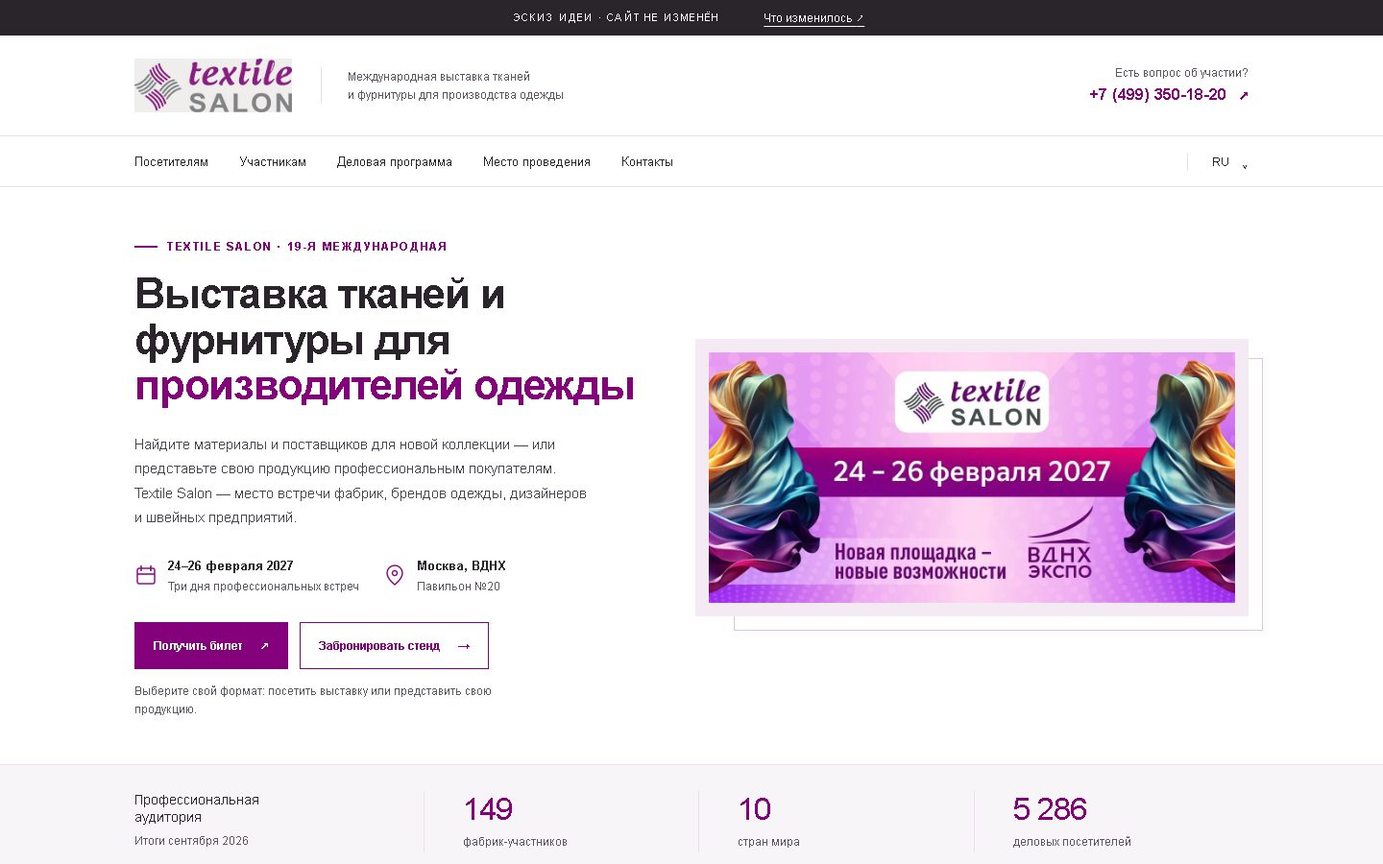
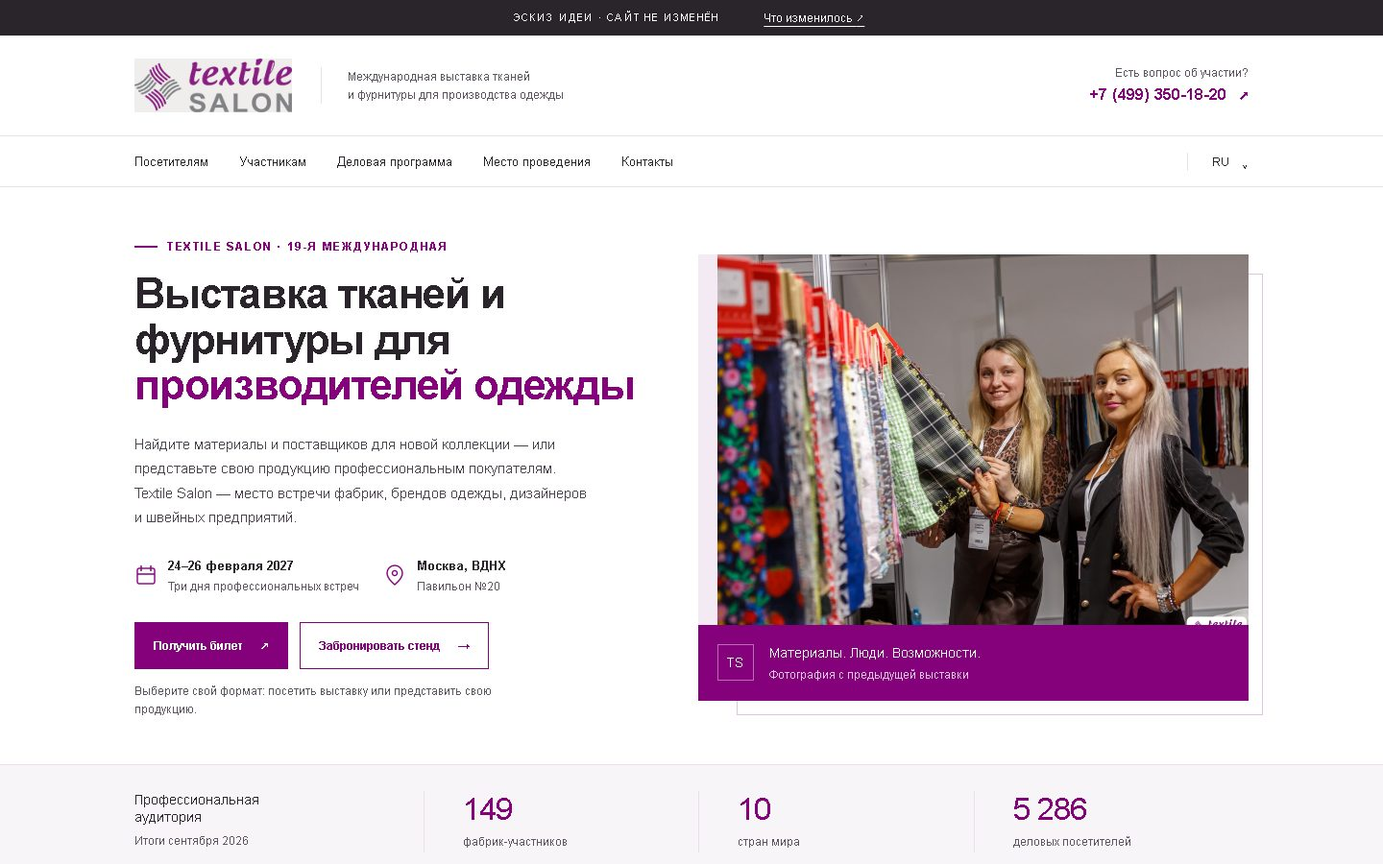
Textile Salon: на первом экране эскиза — фото людей с тканями

Changed region(s): [[0.5, 0.28, 0.9062, 0.84]]

diff --git a/textile-w5n2/maket/index.html b/textile-w5n2/maket/index.html
@@ -32,7 +32,7 @@
         <div class="actions"><button class="button primary" data-open="ticket">Получить билет <span aria-hidden="true">↗</span></button><a class="button secondary" href="#forma">Забронировать стенд <span aria-hidden="true">→</span></a></div>
         <p class="hero-footnote">Выберите свой формат: посетить выставку или представить свою продукцию.</p>
       </div>
-      <div class="hero-image hero-banner"><picture><img src="assets/banner-2027.jpg" width="1260" height="600" alt="Textile Salon, 24–26 февраля 2027, ВДНХ Экспо. Новая площадка — новые возможности"></picture></div>
+      <div class="hero-image hero-photo"><img src="assets/hero.jpg" width="1400" height="987" alt="Посетители знакомятся с образцами тканей на стенде Textile Salon"><div class="image-caption"><span class="caption-mark" aria-hidden="true">TS</span><div>Материалы. Люди. Возможности.<small>Фотография с предыдущей выставки</small></div></div></div>
     </section>
     <section class="proof" aria-label="Итоги предыдущей выставки"><div class="wrap proof-inner"><p>Профессиональная<br>аудитория<small>Итоги сентября 2026</small></p><div><strong>149</strong><span>фабрик-участников</span></div><div><strong>10</strong><span>стран мира</span></div><div><strong>5 286</strong><span>деловых посетителей</span></div></div></section>
     <section class="section wrap why" aria-labelledby="why-title"><div class="section-heading"><div><p class="eyebrow">Почему Textile Salon</p><h2 id="why-title">Выставка, ради которой приезжают</h2></div></div><div class="why-grid"><div><span class="why-num">01</span><h3>Вместе с CPM на ВДНХ</h3><p>Textile Salon и выставка CPM проходят в одни сроки на ВДНХ. Синергия крупнейших fashion-выставок — максимум результата от участия.</p></div><div><span class="why-num">02</span><h3>Время заказов</h3><p>Выставка проходит, когда производители одежды формируют заказы на коллекции следующего сезона.</p></div><div><span class="why-num">03</span><h3>Фабрики Турции и Европы</h3><p>Крупнейшая в России выставка тканей для производства одежды по количеству фабрик из Турции и Европы.</p></div></div></section>
@@ -44,9 +44,9 @@
       </div>
     </section>
     <section class="section trust" aria-labelledby="trust-title"><div class="wrap"><div class="section-heading"><div><p class="eyebrow">Участники и отзывы</p><h2 id="trust-title">149 фабрик уже были с нами</h2></div><button class="text-link" data-open="catalogue">Каталог участников <span aria-hidden="true">↗</span></button></div><img class="logo-wall" loading="lazy" src="assets/logos.webp" width="1600" height="900" alt="Логотипы фабрик — участников Textile Salon"><div class="quotes"><figure><blockquote>«Участвуем впервые в Textile Salon, но что мы увидели на открытии — выставка очень профессиональная. Первый день был очень продуктивным, мы собрали заказы на выставке».</blockquote><figcaption>Gurcan Dur<small>RIDVAN AHMEDIN TEKSTIL</small></figcaption></figure><figure><blockquote>«Организация выставки всегда на высшем уровне, большой поток посетителей к нам: и постоянные наши клиенты за новинками приезжают, и много новых партнеров именно с этой выставки у нас».</blockquote><figcaption>Юлиана Боровская<small>SERGIO STEFANO</small></figcaption></figure><figure><blockquote>«Экспозиция TEXTILE SALON — это ключ для открытия и освоения Российского рынка в сфере производства тканей для одежды».</blockquote><figcaption>Ahmet Hocazade<small>EMRE TEKSTİL</small></figcaption></figure></div><p class="subtle">Отзывы и логотипы — с действующего сайта textile-salon.ru.</p></div></section>
-<section class="section atmosphere" id="photos"><div class="wrap"><div class="section-heading"><div><p class="eyebrow">Встречаемся вживую</p><h2>Так проходит Textile Salon</h2></div><button class="text-link" data-open="photos">Все фотографии <span aria-hidden="true">↗</span></button></div><div class="photo-grid"><button data-photo="assets/photo-1.jpg" aria-label="Открыть фото: образцы тканей"><img loading="lazy" src="assets/photo-1.jpg" width="360" height="254" alt="Образцы тканей на стенде выставки"></button><button data-photo="assets/photo-2.jpg" aria-label="Открыть фото: общение на стендах"><img loading="lazy" src="assets/photo-2.jpg" width="360" height="254" alt="Деловая встреча на стенде Runa Tex"></button><button data-photo="assets/photo-3.jpg" aria-label="Открыть фото: обсуждение коллекций"><img loading="lazy" src="assets/photo-3.jpg" width="360" height="242" alt="Участники обсуждают материалы на стенде"></button></div><p class="subtle">Фотографии предыдущих выставок. Архивные материалы сохраняются.</p><details class="video-details"><summary><span class="play-symbol" aria-hidden="true">▶</span><span>Видео итоги выставки<small>Сентябрь 2026 · смотреть по нажатию</small></span><span class="plus" aria-hidden="true">+</span></summary><video controls preload="none" playsinline poster="assets/poster.jpg"><source src="assets/video.mp4" type="video/mp4">Ваш браузер не поддерживает видео.</video></details></div></section>
+<section class="section atmosphere" id="photos"><div class="wrap"><div class="section-heading"><div><p class="eyebrow">Встречаемся вживую</p><h2>Так проходит Textile Salon</h2></div><button class="text-link" data-open="photos">Все фотографии <span aria-hidden="true">↗</span></button></div><div class="photo-grid"><button data-photo="assets/photo-2.jpg" aria-label="Открыть фото: общение на стендах"><img loading="lazy" src="assets/photo-2.jpg" width="360" height="254" alt="Деловая встреча на стенде Runa Tex"></button><button data-photo="assets/photo-3.jpg" aria-label="Открыть фото: обсуждение коллекций"><img loading="lazy" src="assets/photo-3.jpg" width="360" height="242" alt="Участники обсуждают материалы на стенде"></button><button data-photo="assets/photo-1.jpg" aria-label="Открыть фото: образцы тканей"><img loading="lazy" src="assets/photo-1.jpg" width="360" height="254" alt="Образцы тканей на стенде выставки"></button></div><p class="subtle">Фотографии предыдущих выставок. Архивные материалы сохраняются.</p><details class="video-details"><summary><span class="play-symbol" aria-hidden="true">▶</span><span>Видео итоги выставки<small>Сентябрь 2026 · смотреть по нажатию</small></span><span class="plus" aria-hidden="true">+</span></summary><video controls preload="none" playsinline poster="assets/poster.jpg"><source src="assets/video.mp4" type="video/mp4">Ваш браузер не поддерживает видео.</video></details></div></section>
     <section class="section wrap essentials" id="program"><div class="section-heading"><div><p class="eyebrow">Подготовьтесь к визиту</p><h2>Всё нужное — рядом</h2></div></div><div class="quick-grid"><button data-open="program"><span>01</span><strong>Деловая программа</strong><small>Выступления и профессиональное общение</small><b aria-hidden="true">↗</b></button><button data-open="catalogue"><span>02</span><strong>Участники выставки</strong><small>Фабрики, коллекции и контакты</small><b aria-hidden="true">↗</b></button><button data-open="application"><span>03</span><strong>Мобильное приложение</strong><small>Дополнительные возможности для посетителей</small><b aria-hidden="true">↗</b></button></div></section>
-    <section class="location" id="location"><div class="wrap location-inner"><div><p class="eyebrow">Место встречи</p><h2>Москва. ВДНХ.<br>Павильон №20.</h2><p>Проспект Мира, д. 119, стр. 20.<br>Метро «ВДНХ» и «Ботанический сад».</p><button class="text-link" data-open="map">Как добраться <span aria-hidden="true">↗</span></button><img class="location-photo" loading="lazy" src="assets/vdnh.webp" width="1000" height="613" alt="Главный вход ВДНХ"></div><div class="schedule"><p>24–26 ФЕВРАЛЯ 2027</p><div><span>24 февраля</span><strong>10:00 — 18:00</strong></div><div><span>25 февраля</span><strong>10:00 — 18:00</strong></div><div><span>26 февраля</span><strong>10:00 — 16:00</strong></div></div></div></section>
+    <section class="location" id="location"><div class="wrap location-inner"><div><p class="eyebrow">Место встречи</p><h2>Москва. ВДНХ.<br>Павильон №20.</h2><p>Проспект Мира, д. 119, стр. 20.<br>Метро «ВДНХ» и «Ботанический сад».</p><button class="text-link" data-open="map">Как добраться <span aria-hidden="true">↗</span></button><img class="location-photo location-banner" loading="lazy" src="assets/banner-2027.jpg" width="1260" height="600" alt="Textile Salon, 24–26 февраля 2027, ВДНХ Экспо. Новая площадка — новые возможности"></div><div class="schedule"><p>24–26 ФЕВРАЛЯ 2027</p><div><span>24 февраля</span><strong>10:00 — 18:00</strong></div><div><span>25 февраля</span><strong>10:00 — 18:00</strong></div><div><span>26 февраля</span><strong>10:00 — 16:00</strong></div></div></div></section>
     <section class="section wrap booking" id="forma"><div class="booking-copy"><p class="eyebrow">Участие в выставке</p><h2>Ваша коллекция.<br>Ваш следующий<br><em>деловой контакт.</em></h2><p>Оставьте контакты, чтобы обсудить стенд и условия участия с организатором.</p><div class="contact-block" id="contacts"><small>Организатор — Expo Fashion</small><button data-open="contacts">+7 (499) 350-18-20 ↗</button><button data-open="contacts">mail@expo-fashion.ru ↗</button></div></div><form class="booking-form" id="demo-form"><h3>Забронировать стенд</h3><p class="demo-note">Демонстрационная форма — данные никуда не отправляются.</p><div class="form-grid"><label>Название компании *<input name="company" autocomplete="organization" placeholder="Ваша компания"></label><label>Контактное лицо *<input name="person" autocomplete="name" placeholder="Как к вам обращаться"></label><label>Телефон *<input name="phone" type="tel" autocomplete="tel" placeholder="+7 (___) ___-__-__"></label><label>Email *<input name="email" type="email" autocomplete="email" placeholder="mail@company.ru"></label></div><label>Площадь стенда <span class="optional">необязательно</span><input name="stand" placeholder="Если уже знаете желаемую площадь"></label><div class="consent-preview"><input type="checkbox" disabled aria-label="Образец галочки согласия, в макете не используется"><span>Я согласен(-а) с обработкой персональных данных.<br><button type="button" data-open="consent">Документ согласия</button></span></div><button type="button" class="button primary form-button" data-open="form-demo">Отправить заявку <span aria-hidden="true">→</span></button><small class="required-note">* Обязательные поля в рабочей форме</small></form></section>
   </main>
   <footer><div class="wrap footer-inner"><img src="assets/logo.gif" width="150" height="52" alt="Textile Salon"><p>Международная выставка тканей и фурнитуры<br>для производства одежды</p><button data-open="privacy">Политика конфиденциальности ↗</button></div></footer>

diff --git a/textile-w5n2/ideya/index.html b/textile-w5n2/ideya/index.html
@@ -54,7 +54,7 @@ footer{padding-top:36px;color:var(--muted);font-size:14px;border-top:1px solid v
 <table>
 <thead><tr><th>Что хочет понять человек</th><th>Сейчас</th><th>В эскизе</th></tr></thead>
 <tbody>
-<tr><td>Что это?</td><td>Логотип и даты на баннере. Слова «выставка тканей и фурнитуры» — ниже, после прокрутки</td><td class="yes">Сразу в заголовке: «Выставка тканей и фурнитуры»</td></tr>
+<tr><td>Что это?</td><td>Логотип и даты на баннере. Слова «выставка тканей и фурнитуры» — ниже, после прокрутки</td><td class="yes">Живое фото людей с тканями — понятно ещё до чтения. И заголовок: «Выставка тканей и фурнитуры»</td></tr>
 <tr><td>Для кого?</td><td>В тексте ниже баннера</td><td class="yes">«…для производителей одежды» и строка под заголовком</td></tr>
 <tr><td>Когда и где?</td><td class="yes">На баннере — хорошо видно</td><td class="yes">На баннере и ещё раз рядом с кнопками</td></tr>
 <tr><td>Что сделать?</td><td>Внизу кнопка «Получите билет»; бронь стенда — далеко ниже по странице</td><td class="yes">Две кнопки: «Получить билет» и «Забронировать стенд» — всегда под пальцем</td></tr>
@@ -66,10 +66,10 @@ footer{padding-top:36px;color:var(--muted);font-size:14px;border-top:1px solid v
 <div class="compare phones">
 <figure><div class="shot"><img src="img/seychas-m.jpg" width="780" height="1688" alt="Главная на телефоне сейчас: баннер и плашка cookie" loading="lazy"></div><figcaption><b>Сейчас</b>Баннер с логотипом и датами, плашка cookie. Что это за выставка и для кого — после прокрутки.</figcaption></figure>
 <figure><div class="shot"><img src="img/maket-m.jpg" width="780" height="1688" alt="Эскиз главной на телефоне" loading="lazy">
-<span class="pin" style="left:91%;top:17.5%">1</span><span class="pin" style="left:91%;top:45%">2</span><span class="pin" style="left:91%;top:76%">3</span><span class="pin" style="left:6%;top:89%">4</span></div><figcaption><b>Эскиз</b>Тот же баннер, а под ним — ответы на главные вопросы.</figcaption></figure>
+<span class="pin" style="left:91%;top:18.5%">1</span><span class="pin" style="left:91%;top:52%">2</span><span class="pin" style="left:91%;top:83%">3</span><span class="pin" style="left:6%;top:93.5%">4</span></div><figcaption><b>Эскиз</b>Живое фото с выставки, а под ним — ответы на главные вопросы.</figcaption></figure>
 </div>
 <ul class="legend">
-<li><i>1</i><div><b>Фирменный баннер сезона остаётся</b><span>Узнаваемый образ выставки — как сейчас.</span></div></li>
+<li><i>1</i><div><b>Живые люди и ткани в руках</b><span>Ещё не прочитав ни слова, человек понимает, о чём выставка. Живые люди привлекают внимание и вызывают доверие.</span></div></li>
 <li><i>2</i><div><b>Заголовок отвечает «что это и для кого»</b><span>«Выставка тканей и фурнитуры для производителей одежды». Такой заголовок помогает и поиску в Яндексе.</span></div></li>
 <li><i>3</i><div><b>Даты и место — рядом, без поиска</b><span>Человеку не нужно листать, чтобы понять, когда и куда ехать.</span></div></li>
 <li><i>4</i><div><b>Две кнопки: билет — посетителю, стенд — участнику</b><span>На телефоне обе закреплены внизу экрана и видны всегда.</span></div></li>
@@ -82,7 +82,7 @@ footer{padding-top:36px;color:var(--muted);font-size:14px;border-top:1px solid v
 <div class="compare">
 <figure><div class="shot"><img src="img/seychas-d.jpg" width="1440" height="900" alt="Главная на компьютере сейчас" loading="lazy"></div><figcaption><b>Сейчас</b>Описание выставки есть — мелкой строкой вверху и текстом под баннером. Билет и заявка на стенд на первом экране — только в выпадающих меню.</figcaption></figure>
 <figure><div class="shot"><img src="img/maket-d.jpg" width="1440" height="900" alt="Эскиз главной на компьютере" loading="lazy">
-<span class="pin" style="left:88%;top:41%">1</span><span class="pin" style="left:6.5%;top:33%">2</span><span class="pin" style="left:6.5%;top:66.5%">3</span><span class="pin" style="left:6.5%;top:74.5%">4</span></div><figcaption><b>Эскиз</b>Текст и кнопки слева, фирменный баннер справа — всё на одном экране.</figcaption></figure>
+<span class="pin" style="left:88%;top:31%">1</span><span class="pin" style="left:6.5%;top:33%">2</span><span class="pin" style="left:6.5%;top:66.5%">3</span><span class="pin" style="left:6.5%;top:74.5%">4</span></div><figcaption><b>Эскиз</b>Текст и кнопки слева, живое фото с выставки справа — всё на одном экране.</figcaption></figure>
 </div>
 </section>
 
@@ -95,7 +95,7 @@ footer{padding-top:36px;color:var(--muted);font-size:14px;border-top:1px solid v
 <div class="card"><span class="k">Довод для участника</span><p>Рядом с кнопкой брони — 5 286 деловых посетителей, 89% из них принимают решения о контрактах.</p></div>
 <div class="card"><span class="k">Участники и отзывы</span><p>Стена логотипов 149 фабрик и три отзыва участников — доверие без лишних слов.</p></div>
 <div class="card"><span class="k">Фото и видео</span><p>Спокойнее: несколько фотографий и видео, которое загружается только по нажатию.</p></div>
-<div class="card"><span class="k">Место и заявка</span><p>Адрес, часы работы и форма брони стенда рядом с контактами организатора.</p></div>
+<div class="card"><span class="k">Место и заявка</span><p>Фирменный баннер сезона «Новая площадка — новые возможности» — в блоке про ВДНХ. Рядом адрес, часы работы и форма брони стенда.</p></div>
 </div>
 </section>
 
@@ -127,5 +127,5 @@ footer{padding-top:36px;color:var(--muted);font-size:14px;border-top:1px solid v
 <a class="cta" href="../maket/" target="_blank" rel="noopener">Открыть эскиз целиком →</a>
 </section>
 
-<footer>Эскиз собран из материалов сайта textile-salon.ru: баннер, фотографии, цифры итогов сентября 2026, отзывы и логотипы участников. Действующий сайт не изменялся.</footer>
+<footer>Эскиз собран из материалов сайта textile-salon.ru: фотографии, фирменный баннер, цифры итогов сентября 2026, отзывы и логотипы участников. Действующий сайт не изменялся.</footer>
 </div></body></html>

diff --git a/textile-w5n2/maket/script.js b/textile-w5n2/maket/script.js
@@ -15,7 +15,7 @@ const pages={
 };
 function openInfo(key){
   if(key==='explain'){
-    body.innerHTML='<p class="dialog-meta">Бережное обновление главной</p><h2 id="dialog-title">Что я предлагаю изменить</h2><ol><li><strong>Объяснить выставку сразу.</strong> Короткое название, аудитория, даты и место находятся рядом.</li><li><strong>Два понятных действия.</strong> Билет и стенд видны на первом экране; на телефоне обе кнопки закреплены внизу.</li><li><strong>Разделить задачи посетителей.</strong> Покупатели материалов и участники выставки получают свои короткие блоки.</li><li><strong>Показать подтверждения.</strong> Цифры явно относятся к сентябрю2026, а не обещают состав будущей выставки.</li><li><strong>Сделать чтение спокойнее.</strong> Короткие абзацы, крупные ссылки и меньше конкурирующих элементов.</li><li><strong>Сохранить знакомое.</strong> Фирменный баннер сезона, прежние цвет, логотип, фотографии, контакты и разделы. Видео только по нажатию.</li></ol><p>Это предложение для обсуждения. На действующем сайте ничего не изменено. Рост обращений проверяется статистикой, а не обещается макетом.</p>';
+    body.innerHTML='<p class="dialog-meta">Бережное обновление главной</p><h2 id="dialog-title">Что я предлагаю изменить</h2><ol><li><strong>Объяснить выставку сразу.</strong> Живое фото людей с тканями, название, аудитория, даты и место — на первом экране.</li><li><strong>Два понятных действия.</strong> Билет и стенд видны на первом экране; на телефоне обе кнопки закреплены внизу.</li><li><strong>Разделить задачи посетителей.</strong> Покупатели материалов и участники выставки получают свои короткие блоки.</li><li><strong>Показать подтверждения.</strong> Цифры явно относятся к сентябрю2026, а не обещают состав будущей выставки.</li><li><strong>Сделать чтение спокойнее.</strong> Короткие абзацы, крупные ссылки и меньше конкурирующих элементов.</li><li><strong>Сохранить знакомое.</strong> Фирменный баннер сезона (в блоке «Место встречи»), прежние цвет, логотип, фотографии, контакты и разделы. Видео только по нажатию.</li></ol><p>Это предложение для обсуждения. На действующем сайте ничего не изменено. Рост обращений проверяется статистикой, а не обещается макетом.</p>';
   }else{
     const data=pages[key];if(!data)return;
     body.replaceChildren();

diff --git a/textile-w5n2/maket/style.css b/textile-w5n2/maket/style.css
@@ -23,3 +23,7 @@ h1{font-size:clamp(34px,3.1vw,44px)}
 .trust{border-top:1px solid var(--line)}.logo-wall{width:100%;border:1px solid var(--line);background:#fff}.quotes{display:grid;grid-template-columns:repeat(3,1fr);gap:23px;margin-top:28px}.quotes figure{margin:0;background:var(--soft);border:1px solid var(--line);padding:24px;display:flex;flex-direction:column;justify-content:space-between;gap:16px}.quotes blockquote{margin:0;font-size:15px;line-height:1.55}.quotes figcaption{font-weight:700;font-size:14px;color:var(--purple)}.quotes figcaption small{display:block;font-weight:400;color:var(--muted);font-size:12px;letter-spacing:.5px;margin-top:2px}
 .location-photo{margin-top:22px;width:100%;max-width:480px;aspect-ratio:16/9;object-fit:cover}
 @media(max-width:700px){.why-grid,.quotes{grid-template-columns:1fr;gap:16px}.why-grid h3{font-size:19px}.quotes figure{padding:20px}.quotes blockquote{font-size:14px}}
+
+/* 19.10: на первом экране снова фото людей с тканями; баннер — в «Месте встречи» */
+.location-banner{aspect-ratio:auto;object-fit:contain;max-width:520px}
+@media(max-width:700px){.hero-photo{order:-1;padding:0;margin:0;background:none}.hero-photo:before{display:none}.hero-photo>img{height:230px;object-position:50% 35%}.hero-photo .image-caption{display:none}}
